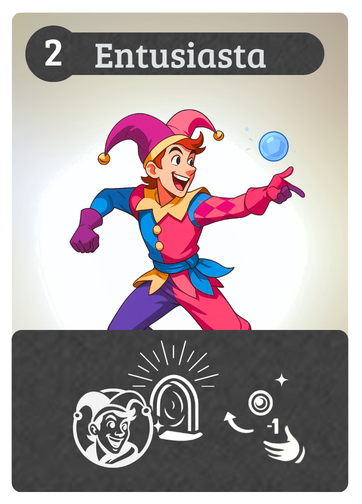
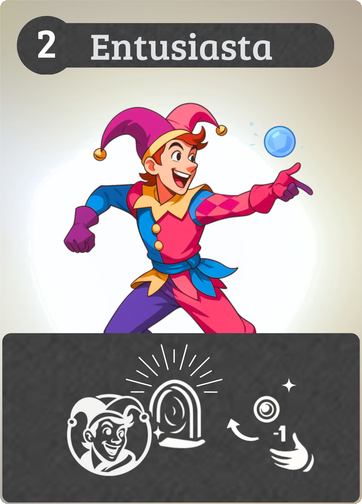
Cartas de personaje nuevas de Adrián (PDF Invocadores 4.0)
Regenera las 14 cartas de assets/cards desde el PDF con
tools/cartas_desde_pdf.py. Sin cambios de reglas: las cantidades de la
esquina ya coincidían con el mazo del código.

Claude-Session: https://claude.ai/code/session_01V56fjwEP31baQxWUjnbgcc

Changed region(s): [[0.0, 0.0, 1.0, 1.0]]

diff --git a/tools/cartas_desde_pdf.py b/tools/cartas_desde_pdf.py
@@ -1,0 +1,42 @@
+#!/usr/bin/env python3
+"""Genera assets/cards/<personaje>.png (362x504, esquinas redondeadas) a partir
+del PDF de cartas que exporta Adrián desde Canva (una carta por página).
+
+    pdftoppm -r 300 -png cartas.pdf build/pdf/p    # una imagen por página
+    python3 tools/cartas_desde_pdf.py build/pdf
+
+Las páginas 1-14 son los personajes en este orden. Las de reverso y ayuda
+(15-17) no se usan: en el PDF salen recortadas, y las de assets/cards no han
+cambiado. Si el orden del PDF cambia, actualiza ORDEN. Requiere Pillow.
+"""
+import sys
+from pathlib import Path
+from PIL import Image, ImageChops, ImageDraw
+
+RAIZ = Path(__file__).resolve().parent.parent
+DESTINO = RAIZ / 'assets' / 'cards'
+TAMANO = (362, 504)
+RADIO = 7  # radio de las esquinas a 362 px de ancho
+ORDEN = ['maestro', 'clarividente', 'ocultista', 'cronomante', 'estratega',
+         'cronista', 'aprendiz', 'centinela', 'picaro', 'metamorfo',
+         'entusiasta', 'reena', 'sora', 'lumo']
+
+
+def recortar_carta(im):
+    """Recorta el margen blanco de la página y deja solo la carta."""
+    fondo = Image.new('RGB', im.size, (255, 255, 255))
+    dif = ImageChops.difference(im, fondo).convert('L').point(lambda v: 255 if v > 12 else 0)
+    return im.crop(dif.getbbox())
+
+
+if __name__ == '__main__':
+    origen = Path(sys.argv[1])
+    paginas = sorted(origen.glob('*.png'))
+    mascara = Image.new('L', TAMANO, 0)
+    ImageDraw.Draw(mascara).rounded_rectangle((0, 0, TAMANO[0] - 1, TAMANO[1] - 1), RADIO, fill=255)
+    for nombre, png in zip(ORDEN, paginas):
+        carta = recortar_carta(Image.open(png).convert('RGB')).resize(TAMANO, Image.LANCZOS).convert('RGBA')
+        carta.putalpha(mascara)
+        salida = DESTINO / f'{nombre}.png'
+        carta.save(salida, optimize=True)
+        print(png.name, '->', salida.name, salida.stat().st_size // 1024, 'KB')

diff --git a/CHANGELOG.md b/CHANGELOG.md
@@ -4,6 +4,22 @@ Todas las versiones importantes del simulador de Invocadores.
 
 ---
 
+## [1.30.1.73] - 2026-11-06
+
+### Cambiado
+- **Cartas nuevas de Adrián** (PDF "Invocadores 4.0 junio 2026"): las 14
+  cartas de personaje de `assets/cards/*.png` se regeneran desde ese PDF con
+  el nuevo `tools/cartas_desde_pdf.py`. El número de la esquina ahora es el
+  de copias de cada carta en el mazo (Maestro 2, Clarividente 2, Ocultista
+  2, Cronomante 3, Estratega 3, Cronista 4, Aprendiz 4, Centinela 4, Pícaro
+  6, Metamorfo 2, Entusiasta 2, Reena/Sora/Lumo 3), que ya coincidía con
+  `CANTIDADES_MODO_NORMAL`/`CANTIDADES_ANIMALES`: no cambia ninguna regla.
+  El Maestro estrena icono de su habilidad activa (bajar la carta visible de
+  otra persona a su Portal). El reverso y las cartas de ayuda no cambian.
+- Los SVG de `assets/cartas/` quedan desfasados hasta que lleguen los
+  nuevos; no relanzar `tools/generar_cartas.py` con ellos o se perderían las
+  cartas nuevas.
+
 ## [1.30.0.119] - 2026-11-06
 
 ### Añadido

diff --git a/CLAUDE.md b/CLAUDE.md
@@ -427,7 +427,12 @@ in `nextTurn()`.
   classic card images (`assets/cards/*.png`, incl. the `carta-oculta-reverso.png`
   back from `portal.svg`) are generated from the full-card SVGs in
   `assets/cartas/` by `node tools/rasterizar_svg.cjs cartas && python3
-  tools/generar_cartas.py` (same file names and 362x504 size). Toggle: `#btnEspectaculo` (header) /
+  tools/generar_cartas.py` (same file names and 362x504 size). **Since
+  1.30.1 the 14 character cards come instead from Adrián's newer PDF
+  ("Invocadores 4.0", corner number = copies in the deck) via
+  `tools/cartas_desde_pdf.py`; the SVGs in `assets/cartas/` are outdated
+  until new ones arrive, so don't re-run `generar_cartas.py` with them**
+  (the back and the two help cards still come from the old ones). Toggle: `#btnEspectaculo` (header) /
   `#chkEspectaculo` (setup), stored in `localStorage`.
 - **`js/mesa3d.js`** + **`mesa3d.css`** + **`js/vista-mesa.js`** — "Mesa
   3D" view (added 1.27.0, 2026-11-06), an alternative to the classic board

diff --git a/NOVEDADES.md b/NOVEDADES.md
@@ -6,6 +6,14 @@ detalle técnico completo, mira `CHANGELOG.md`.
 
 ---
 
+## 1.30.1.73 - 2026-11-06
+
+- **Cartas nuevas.** Las cartas de personaje usan ya el diseño nuevo de
+  Adrián. El número de la esquina indica cuántas copias de esa carta hay en
+  el mazo, y el Maestro tiene un icono nuevo que explica su habilidad de
+  obligar a alguien a bajar su carta visible a su Portal. Las reglas no
+  cambian.
+
 ## 1.30.0.119 - 2026-11-06
 
 - **Las autómatas aprenden de vosotras.** Cada vez que una persona juega
